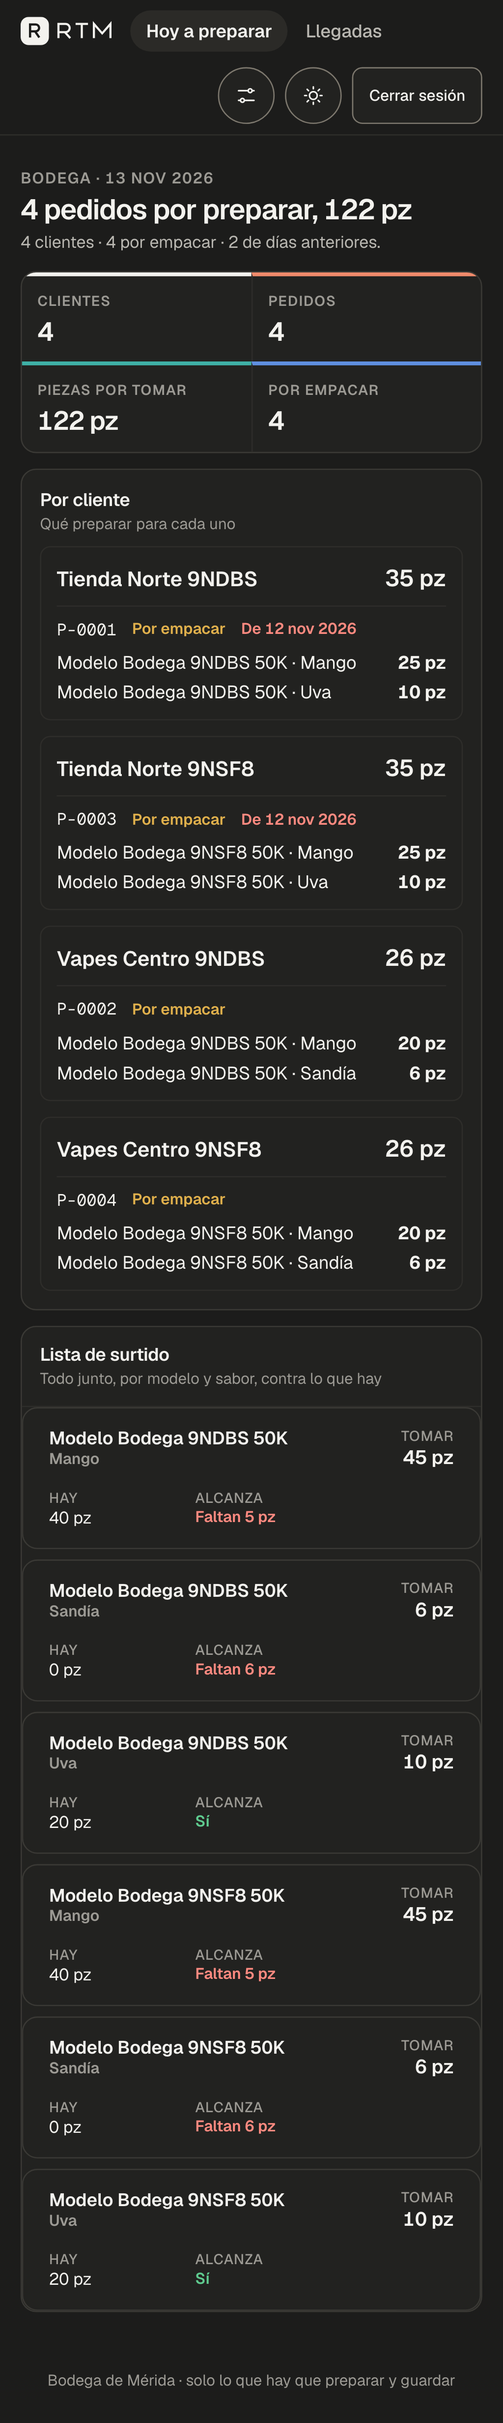
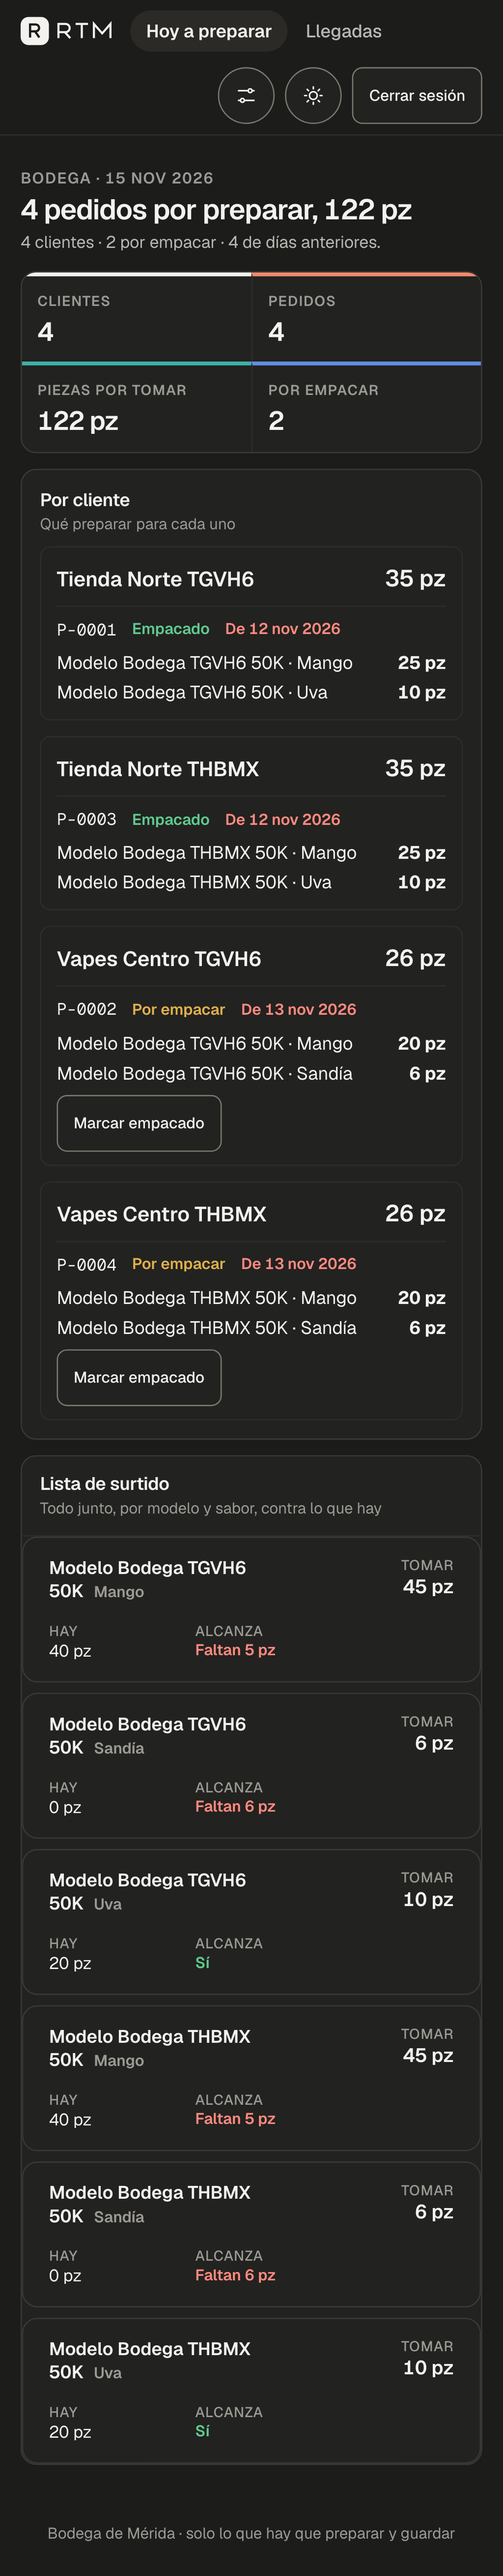
feat(bodega): Omar creable desde Cuentas y Marcar empacado propio de bodega (migracion 20261119500000)
Cherry-pick de 4b74441e sobre deploy/d0; la migracion se renumera despues de la ultima aplicada en la nube.

diff --git a/test/e2e/bodega.spec.ts b/test/e2e/bodega.spec.ts
@@ -73,9 +73,9 @@ test('el socio da de alta un correo de bodega desde Cuentas y el acceso se crea 
   await altaUsuario({ correo: correoSocio, socio: 'Javier' });
   await entrarComo(page, correoSocio, '/cuentas');
   await expect(page.getByRole('heading', { level: 1 })).toContainText('cuenta');
-  // Solo se ofrece el tipo bodega: nunca socio ni Omar.
+  // Solo se ofrecen tipos de bajo privilegio (bodega y Omar): nunca socio.
   const opciones = await page.getByTestId('campo-tipo-cuenta').locator('option').allTextContents();
-  expect(opciones).toEqual(['Bodega']);
+  expect(opciones).toEqual(['Bodega', 'Omar']);
   await page.getByTestId('crear-cuenta').click();
   await expect(page.getByText('Escribe el correo.')).toBeVisible();
   await page.getByTestId('campo-correo').fill(correoBodega);
@@ -85,6 +85,9 @@ test('el socio da de alta un correo de bodega desde Cuentas y el acceso se crea 
   await expect(page.getByRole('row').filter({ hasText: correoBodega })).toContainText('Activa');
   await expect(page.getByTestId('aviso-sin-acceso')).toBeVisible();
   await captura(page, info.project.name, 'claro', 'cuentas');
+  await page.evaluate(() => { document.documentElement.dataset.tema = 'oscuro'; });
+  await captura(page, info.project.name, 'oscuro', 'cuentas');
+  await page.evaluate(() => { document.documentElement.dataset.tema = 'claro'; });
   // Repetir el mismo alta no duplica.
   await page.getByTestId('campo-correo').fill(correoBodega);
   await page.getByTestId('crear-cuenta').click();
@@ -124,6 +127,13 @@ for (const tema of ['claro', 'oscuro'] as const) {
     // Sin desbordes a 390.
     expect(await page.evaluate(() => document.documentElement.scrollWidth <= document.documentElement.clientWidth + 1)).toBe(true);
     await captura(page, info.project.name, tema, 'hoy');
+    if (tema === 'claro') {
+      // Bodega marca empacado el pedido del cliente A; el estado cambia y el boton desaparece. Repetir el clic no duplica.
+      await expect(a.getByTestId('marcar-empacado')).toHaveCount(1);
+      await a.getByTestId('marcar-empacado').click();
+      await expect(a).toContainText('Empacado');
+      await expect(a.getByTestId('marcar-empacado')).toHaveCount(0);
+    }
     await page.getByRole('link', { name: 'Llegadas' }).click();
     await expect(page).toHaveURL(/\/bodega\/llegadas$/);
     const compra = page.getByTestId('bodega-compra').filter({ hasText: `E2E-${SUF}` });

diff --git a/test/unit/rol_bodega.test.ts b/test/unit/rol_bodega.test.ts
@@ -1,6 +1,7 @@
 import { describe, it, expect } from 'vitest';
 import { completarAcceso, completarConfirmacion } from '@/aplicacion/acceso/completar_acceso';
 import type { Autenticador, DepsAcceso, EstadoSesion } from '@/aplicacion/acceso/puertos';
+import { empacar } from '@/aplicacion/bodega/bodega';
 import { cambiarCorreo, cambiarEstado, darDeAlta, ErrorCuentas, type PuertoCuentas } from '@/aplicacion/cuentas/cuentas';
 import { ACCIONES, ACCIONES_BODEGA, CAPACIDADES, puede, puedeBodega, puedeOmar } from '@/dominio/capacidades';
 import { destinoSeguro, rutaPropiaSegura } from '@/dominio/acceso/ruta_segura';
@@ -166,5 +167,21 @@ describe('cuentas: correo endurecido (alineado con la base)', () => {
     const r = await cambiarCorreo(p, 'web:12345678-1234-1234-1234-123456789abc', 'A@Example.test', ' B@Example.test ', 'avisar a x@example.test');
     expect(r.ok).toBe(true);
     expect(visto).toEqual([['web:12345678-1234-1234-1234-123456789abc', 'a@example.test', 'b@example.test', 'avisar a [correo omitido]']]);
+  });
+});
+
+describe('bodega: marcar empacado', () => {
+  const CLAVE = 'web:12345678-1234-1234-1234-123456789abc';
+  it('valida clave y folio antes de llamar y traduce los errores', async () => {
+    let n = 0;
+    const ok = { marcarEmpacado: async () => { n += 1; } };
+    expect((await empacar(ok, 'x', 'P-0001')).ok).toBe(false);
+    expect((await empacar(ok, CLAVE, '1; drop')).ok).toBe(false);
+    expect(n).toBe(0);
+    expect((await empacar(ok, CLAVE, 'P-0001')).ok).toBe(true);
+    const r = await empacar({ marcarEmpacado: async () => { throw new Error('P0428'); } }, CLAVE, 'P-0001');
+    expect(!r.ok && r.mensaje).toMatch(/ya no está por preparar/);
+    const d = await empacar({ marcarEmpacado: async () => { throw new Error('boom: detalle tecnico'); } }, CLAVE, 'P-0001');
+    expect(!d.ok && d.mensaje).not.toMatch(/boom|tecnico/);
   });
 });

diff --git a/src/aplicacion/bodega/bodega.ts b/src/aplicacion/bodega/bodega.ts
@@ -1,5 +1,5 @@
 // Casos de uso de la vista de bodega: solo lectura. La base valida el rol dentro de cada funcion (bodega activo o socio en vista previa).
-import type { HoyAPreparar, Llegadas } from '@/dominio/bodega/bodega';
+import type { HoyAPreparar, Llegadas, ResultadoEmpaque } from '@/dominio/bodega/bodega';
 
 export interface LectorBodega {
   hoy(): Promise<HoyAPreparar>;
@@ -14,5 +14,30 @@ export async function leer<T>(f: () => Promise<T>): Promise<LecturaBodega<T>> {
     return { estado: 'ok', datos: await f() };
   } catch {
     return { estado: 'error' };
+  }
+}
+
+export type { ResultadoEmpaque };
+
+export interface AccionesBodega {
+  marcarEmpacado(clave: string, folio: string): Promise<void>;
+}
+
+
+const CLAVE = /^web:[0-9a-f-]{8,64}$/;
+const FOLIO = /^[A-Z]{1,3}-\d{3,9}$/;
+
+/** Marcar empacado: valida clave y folio, llama a la funcion propia de bodega y traduce los errores sin texto tecnico. */
+export async function empacar(a: AccionesBodega, clave: string, folio: string): Promise<ResultadoEmpaque> {
+  if (!CLAVE.test(clave)) return { ok: false, mensaje: 'Falta la clave de la operación. Recarga la página.' };
+  if (!FOLIO.test(folio)) return { ok: false, mensaje: 'Pedido no válido.' };
+  try {
+    await a.marcarEmpacado(clave, folio);
+    return { ok: true };
+  } catch (e) {
+    const codigo = e instanceof Error ? e.message : '';
+    if (codigo === 'P0428') return { ok: false, mensaje: 'Ese pedido ya no está por preparar. Recarga la página.' };
+    if (codigo === '42501') return { ok: false, mensaje: 'Tu sesión no puede hacer esto.' };
+    return { ok: false, mensaje: 'No se pudo guardar. Intenta de nuevo; no se duplicará.' };
   }
 }

diff --git a/src/ui/bodega/listas.tsx b/src/ui/bodega/listas.tsx
@@ -1,5 +1,7 @@
 import { ETIQUETA_ESTADO_COMPRA, type ClientePorPreparar, type CompraPorRecibir, type LineaBodega, type Surtido } from '@/dominio/bodega/bodega';
 import { etiquetaFecha, formatearPiezas, nombreVape, saborMayus } from '@/dominio/formato';
+import type { ResultadoEmpaque } from '@/dominio/bodega/bodega';
+import { BotonEmpacar } from './boton-empacar';
 import { DataTable } from '../componentes/data-table';
 import { EstadoTexto } from '../componentes/estado-texto';
 import { ModelosSabores } from '../componentes/modelos-sabores';
@@ -15,7 +17,7 @@ function Lineas({ lineas }: { lineas: LineaBodega[] }) {
 }
 
 /** Un cliente con sus pedidos por preparar. Solo nombre del cliente, piezas por modelo y sabor, estado de empaque y zona. */
-export function TarjetaCliente({ c }: { c: ClientePorPreparar }) {
+export function TarjetaCliente({ c, empacar }: { c: ClientePorPreparar; empacar: (clave: string, folio: string) => Promise<ResultadoEmpaque> }) {
   return (
     <li className="bodega-cliente" data-testid="bodega-cliente">
       <div className="bodega-cliente-cab">
@@ -31,6 +33,7 @@ export function TarjetaCliente({ c }: { c: ClientePorPreparar }) {
             {p.zona && <span className="rtm-celda-sub">{p.zona}</span>}
           </div>
           <Lineas lineas={p.lineas} />
+          {!p.empacado && <BotonEmpacar folio={p.folio} accion={empacar} />}
         </div>
       ))}
     </li>

diff --git a/src/ui/bodega/boton-empacar.tsx b/src/ui/bodega/boton-empacar.tsx
@@ -1,0 +1,24 @@
+'use client';
+
+import { useRouter } from 'next/navigation';
+import { useRef, useState, useTransition } from 'react';
+import type { ResultadoEmpaque } from '@/dominio/bodega/bodega';
+
+/** Marca un pedido como empacado. Sin dinero: solo avisa a los socios que ya esta listo para enviar. La clave se renueva solo tras un exito. */
+export function BotonEmpacar({ folio, accion }: { folio: string; accion: (clave: string, folio: string) => Promise<ResultadoEmpaque> }) {
+  const router = useRouter();
+  const [ocupado, empezar] = useTransition();
+  const [error, setError] = useState<string | null>(null);
+  const clave = useRef(`web:${crypto.randomUUID()}`);
+  const pulsar = () => empezar(async () => {
+    let r: ResultadoEmpaque;
+    try { r = await accion(clave.current, folio); } catch { r = { ok: false, mensaje: 'No se pudo guardar. Revisa tu conexión e intenta de nuevo; no se duplicará.' }; }
+    if (r.ok) { setError(null); clave.current = `web:${crypto.randomUUID()}`; router.refresh(); } else setError(r.mensaje);
+  });
+  return (
+    <span className="bodega-empacar">
+      <button type="button" className="rtm-boton rtm-boton-chico" disabled={ocupado} onClick={pulsar} data-testid="marcar-empacado">{ocupado ? 'Guardando' : 'Marcar empacado'}</button>
+      {error && <span className="rtm-error" role="alert">{error}</span>}
+    </span>
+  );
+}

diff --git a/src/app/(bodega)/bodega/page.tsx b/src/app/(bodega)/bodega/page.tsx
@@ -3,6 +3,7 @@ import { hoyDeBodega } from '@/composicion/bodega';
 import { etiquetaFecha, formatearPiezas } from '@/dominio/formato';
 import { KpiLinea } from '@/ui/componentes/kpi';
 import { EncabezadoPagina, Pagina, Rejilla, Tarjeta } from '@/ui/componentes/pagina';
+import { empacarAccion } from '../acciones';
 import { ErrorLectura, TablaSurtido, TarjetaCliente } from '@/ui/bodega/listas';
 
 export const metadata: Metadata = { title: 'Hoy a preparar' };
@@ -34,7 +35,7 @@ export default async function PaginaHoyBodega() {
         <Tarjeta titulo="Por cliente" descripcion="Qué preparar para cada uno">
           {d.clientes.length === 0
             ? <p className="rtm-nota" data-testid="bodega-vacio">Sin pedidos por preparar.</p>
-            : <ul className="bodega-lista">{d.clientes.map((c) => <TarjetaCliente key={c.cliente} c={c} />)}</ul>}
+            : <ul className="bodega-lista">{d.clientes.map((c) => <TarjetaCliente key={c.cliente} c={c} empacar={empacarAccion} />)}</ul>}
         </Tarjeta>
         <Tarjeta plana titulo="Lista de surtido" descripcion="Todo junto, por modelo y sabor, contra lo que hay">
           <TablaSurtido surtido={d.surtido} />

diff --git a/src/composicion/bodega.ts b/src/composicion/bodega.ts
@@ -1,7 +1,7 @@
 // Raiz de composicion de la vista de bodega. Las paginas de app/(bodega) importan de aqui, nunca de infra.
-import { leer, type LecturaBodega } from '@/aplicacion/bodega/bodega';
+import { empacar, leer, type LecturaBodega, type ResultadoEmpaque } from '@/aplicacion/bodega/bodega';
 import type { HoyAPreparar, Llegadas } from '@/dominio/bodega/bodega';
-import { lectorBodegaSupabase } from '@/infra/supabase/bodega';
+import { accionesBodegaSupabase, lectorBodegaSupabase } from '@/infra/supabase/bodega';
 import { exigirBodega } from './acceso';
 
 export async function hoyDeBodega(): Promise<LecturaBodega<HoyAPreparar>> {
@@ -11,4 +11,8 @@ export async function hoyDeBodega(): Promise<LecturaBodega<HoyAPreparar>> {
 export async function llegadasDeBodega(): Promise<LecturaBodega<Llegadas>> {
   await exigirBodega();
   return leer(() => lectorBodegaSupabase().llegadas());
+}
+export async function empacarDeBodega(clave: string, folio: string): Promise<ResultadoEmpaque> {
+  await exigirBodega();
+  return empacar(accionesBodegaSupabase(), clave, folio);
 }

diff --git a/src/infra/supabase/bodega.ts b/src/infra/supabase/bodega.ts
@@ -1,5 +1,5 @@
 // Adaptador de la vista de bodega contra Supabase: sesion del usuario (llave publica) y SOLO api.bodega_hoy_a_preparar / api.bodega_llegadas.
-import type { LectorBodega } from '@/aplicacion/bodega/bodega';
+import type { AccionesBodega, LectorBodega } from '@/aplicacion/bodega/bodega';
 import { parsearHoy, parsearLlegadas } from '@/dominio/bodega/bodega';
 import { crearClienteServidor } from './cliente-servidor';
 
@@ -16,6 +16,16 @@ export function lectorBodegaSupabase(): LectorBodega {
       const { data, error } = await sb.rpc('bodega_llegadas');
       if (error) throw new Error(error.code ?? 'error');
       return parsearLlegadas(data);
+    },
+  };
+}
+
+export function accionesBodegaSupabase(): AccionesBodega {
+  return {
+    async marcarEmpacado(clave, folio) {
+      const sb = await crearClienteServidor();
+      const { error } = await sb.rpc('bodega_marcar_empacado', { p_clave_idem: clave, p_folio: folio });
+      if (error) throw new Error(error.code ?? 'error');
     },
   };
 }

diff --git a/src/ui/estilos/bodega.css b/src/ui/estilos/bodega.css
@@ -54,3 +54,9 @@
 .rtm-tarjeta-v2 .bodega-lista > .bodega-cliente:first-child { border-top-width: 0; padding-top: 0; }
 .bodega-cliente-nombre { font-size: var(--rtm-t-seccion); }
 .bodega-cliente-total { font-size: var(--rtm-t-seccion); }
+.bodega-empacar { display: flex; align-items: center; gap: var(--rtm-e-2); flex-wrap: wrap; }
+/* Lista de surtido en movil: una fila compacta por modelo y sabor (la tabla apilada de DataTable ocupaba mucho alto). */
+@media (max-width: 640px) {
+  .bodega-app [data-testid='tabla-surtido'], .bodega-app .rtm-tabla-apilada { gap: 0; }
+  .bodega-app .rtm-tarjeta-v2[aria-label='Lista de surtido'] .rtm-celda-sub { display: inline; margin-left: var(--rtm-e-2); }
+}

diff --git a/src/app/(bodega)/acciones.ts b/src/app/(bodega)/acciones.ts
@@ -1,7 +1,14 @@
 'use server';
 
+import type { ResultadoEmpaque } from '@/aplicacion/bodega/bodega';
 import { cerrarSesionYSalir } from '@/composicion/acceso';
+import { empacarDeBodega } from '@/composicion/bodega';
 
 export async function salir(): Promise<void> {
   await cerrarSesionYSalir();
+}
+
+export async function empacarAccion(clave: string, folio: string): Promise<ResultadoEmpaque> {
+  if (typeof clave !== 'string' || typeof folio !== 'string') return { ok: false, mensaje: 'Datos inválidos.' };
+  return empacarDeBodega(clave.slice(0, 80), folio.slice(0, 20));
 }

diff --git a/src/dominio/bodega/bodega.ts b/src/dominio/bodega/bodega.ts
@@ -108,3 +108,5 @@ export function parsearLlegadas(v: unknown): Llegadas {
     porGuardar: lineas(f.por_guardar),
   };
 }
+
+export type ResultadoEmpaque = { ok: true } | { ok: false; mensaje: string };

diff --git a/docs/rol-bodega.md b/docs/rol-bodega.md
@@ -50,7 +50,7 @@ Nunca devuelven precios, montos, costos, márgenes, saldos, cuentas por pagar, t
 
 ### Acciones: decisión
 
-Solo lectura. Marcar enviado (guía y costo real, renta devengada) y recibir compra (costo puesto, diferencias, asientos) mueven dinero. La única acción sin dinero es marcar empacado, pero `operacion.marcar_empacado` exige `socio`/`importacion` y habría que reimplementarla con otro rol. Si el dueño la quiere, es el siguiente paso natural: una función `api.bodega_marcar_empacado` propia, con idempotencia y auditoría. Hoy los socios, que son la bodega, usan Paquetes por hacer con su cuenta de socio.
+Lecturas y, desde la migración 20261114000400, solo "Marcar empacado" (ver abajo). Marcar enviado (guía y costo real, renta devengada) y recibir compra (costo puesto, diferencias, asientos) mueven dinero. La única acción sin dinero es marcar empacado, pero `operacion.marcar_empacado` exige `socio`/`importacion` y habría que reimplementarla con otro rol. Si el dueño la quiere, es el siguiente paso natural: una función `api.bodega_marcar_empacado` propia, con idempotencia y auditoría. Hoy los socios, que son la bodega, usan Paquetes por hacer con su cuenta de socio.
 
 ## Persona de bodega (`catalogo.persona_bodega`)
 
@@ -89,3 +89,9 @@ Decisión del dueño (14-nov): el correo de una cuenta de bodega puede ser provi
 - Auditoría con la huella (16 caracteres de un hash) de los dos correos; el correo nunca queda en claro, ni en la auditoría ni en `seguridad.operacion`; el motivo pierde lo que parezca un correo.
 - El usuario de Auth del correo nuevo lo crea `npm run acceso:cuentas` (o `:nube`): ese script ya atiende a toda cuenta creable activa que no tenga usuario de Auth, sin mandar correos. Hasta correrlo, la pantalla muestra «Falta crear su acceso».
 - Pruebas: pgTAP `a11_002_cuenta_cambiar_correo`, vitest en `test/unit/rol_bodega.test.ts` y Playwright `test/e2e/bodega.spec.ts` (cambia el correo, la sesión anterior cae, el nuevo entra a su vista).
+
+## Omar creable desde la web y "Marcar empacado" (migración 20261114000400)
+
+- Omar ya está activo, así que `omar` pasó a tipo creable desde la web (bajo privilegio, igual que bodega): un socio puede dar de alta y desactivar sus correos desde Cuentas. `socio` e `importacion` siguen bloqueados por CHECK, y un correo existente nunca cambia de tipo.
+- `api.bodega_marcar_empacado(clave, folio)`: la persona de bodega marca empacado un pedido confirmado que sale de la bodega. Solo fija `empacado_at` (sin dinero, sin enviar, sin tocar inventario), idempotente, con evento y auditoría. Marcar enviado y recibir compra siguen siendo solo de socio. Botón "Marcar empacado" en "Hoy a preparar".
+- Pruebas: pgTAP `a8_004_bodega_empacar`, `a8_001` actualizado, vitest y e2e. El sondeo de `a8_002` excluye esta función y sigue exigiendo 42501 en todas las demás.
